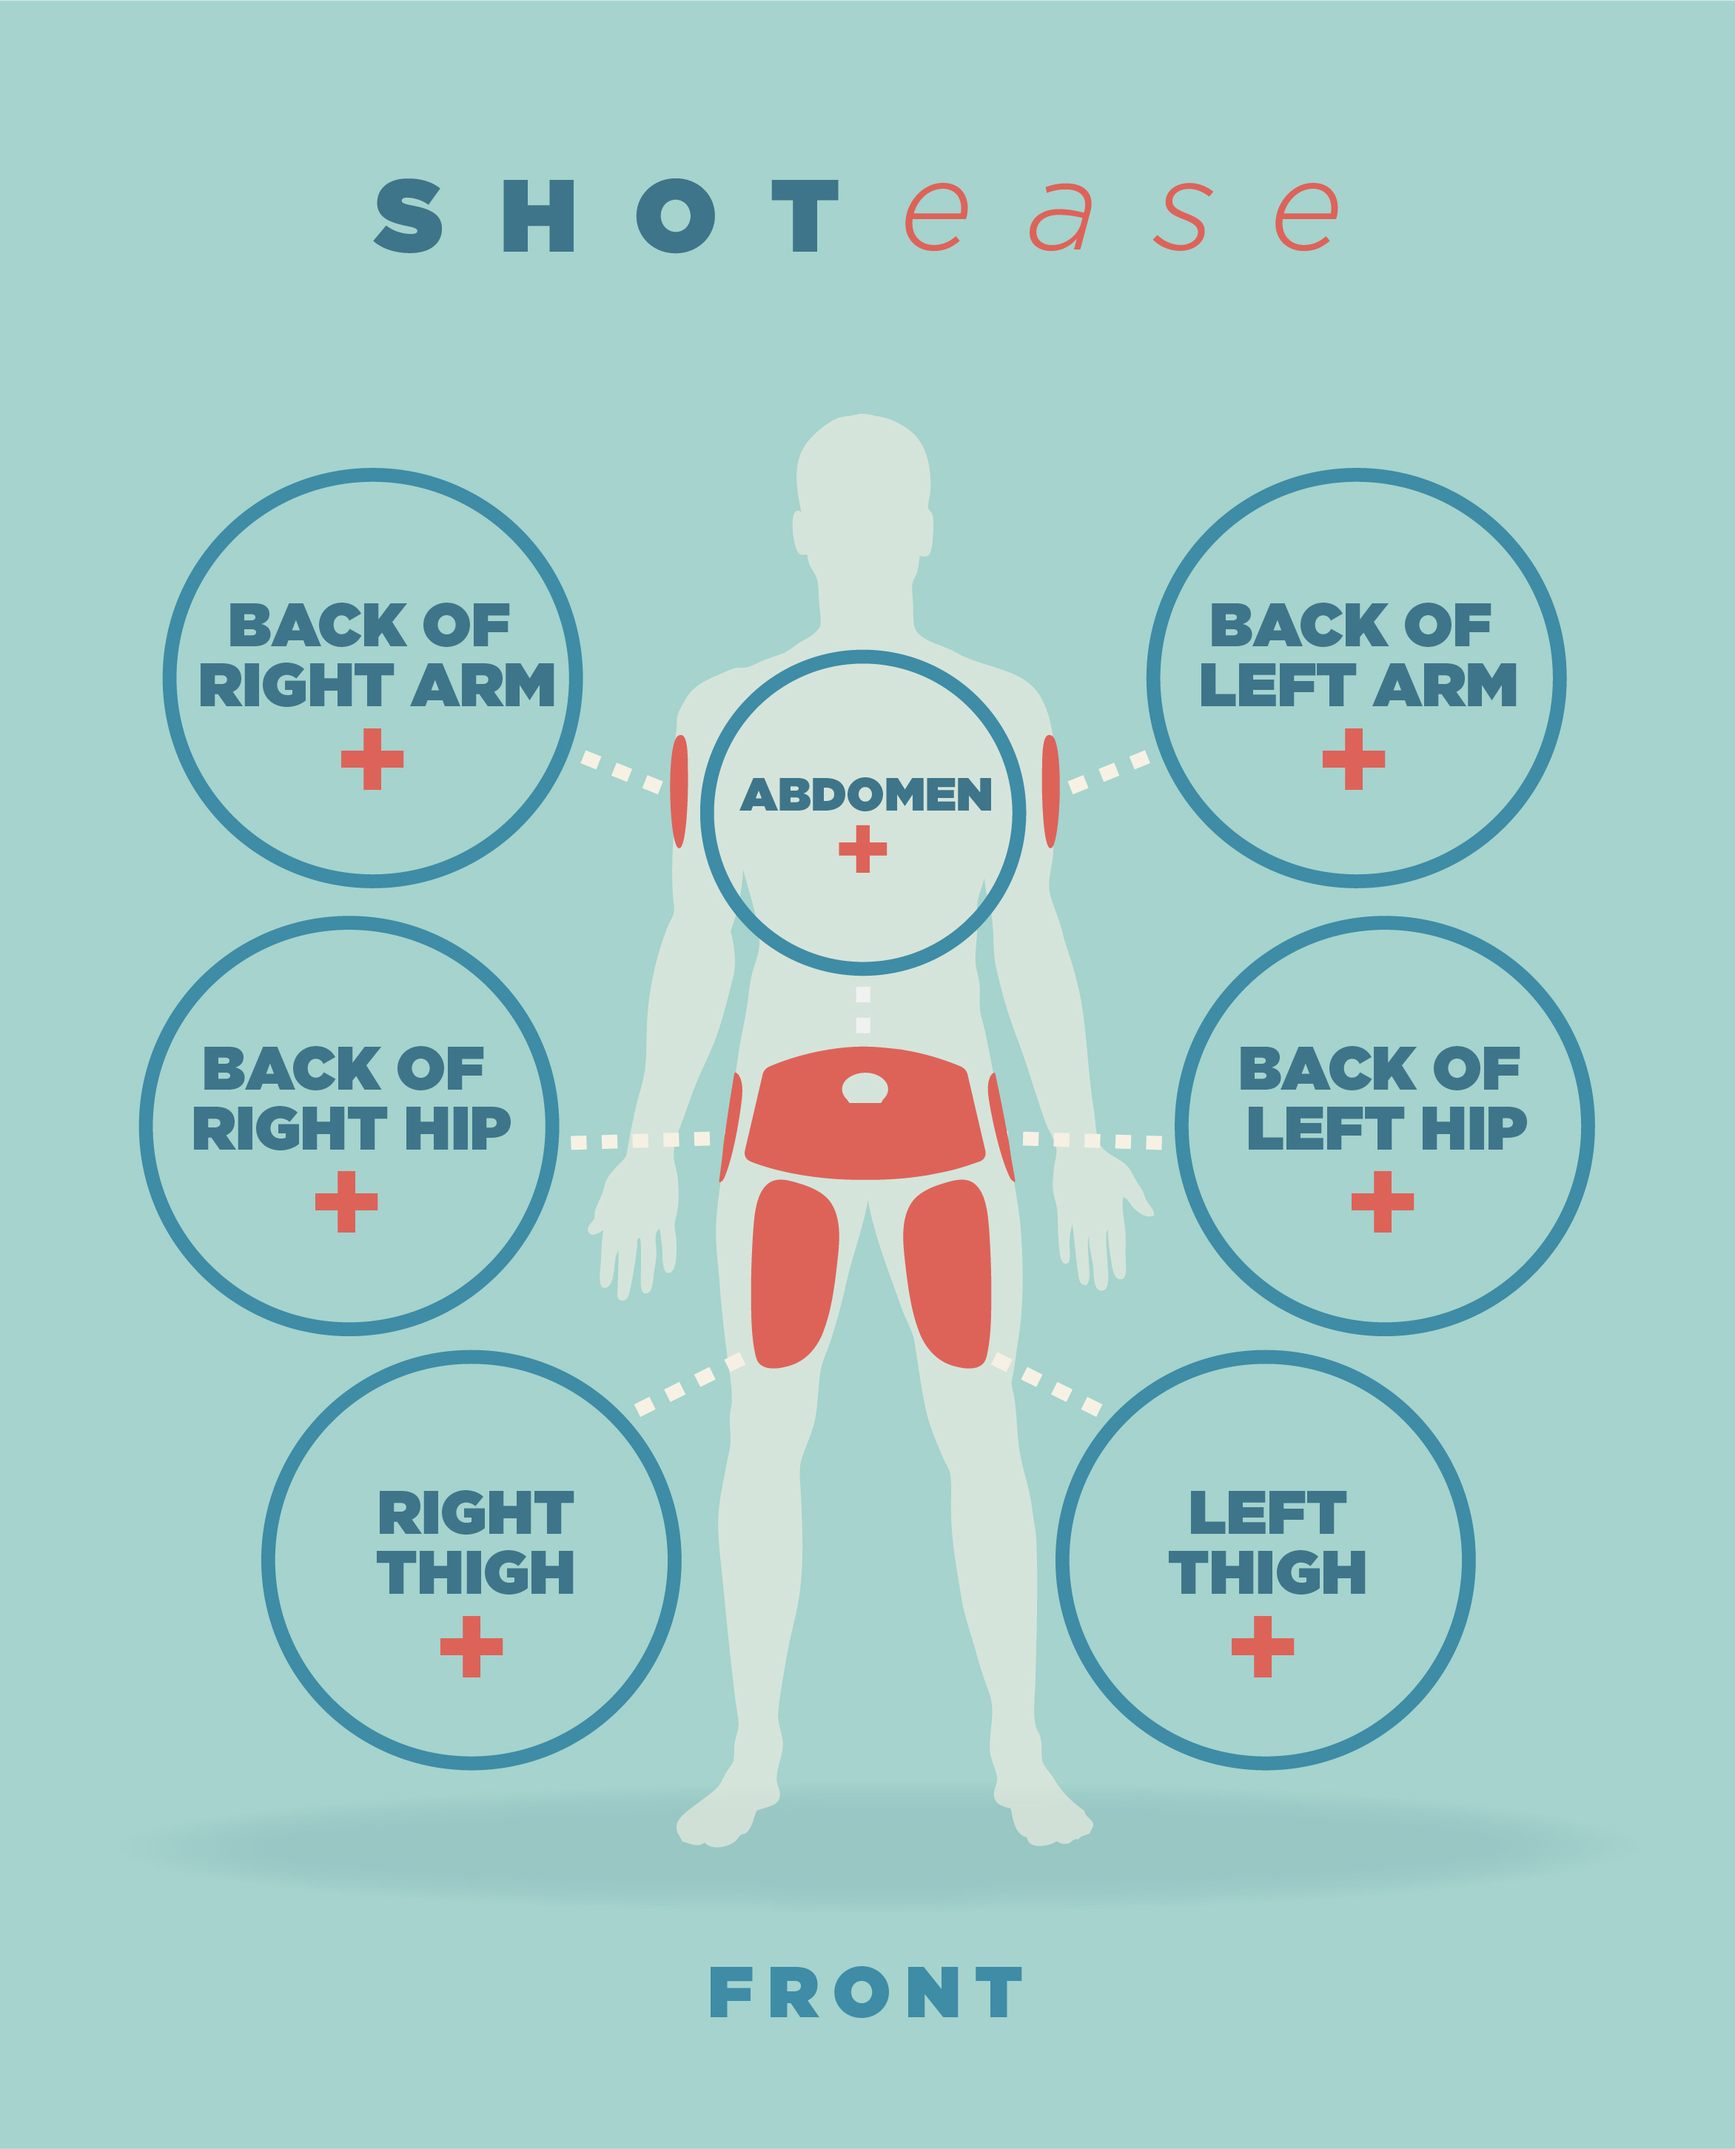
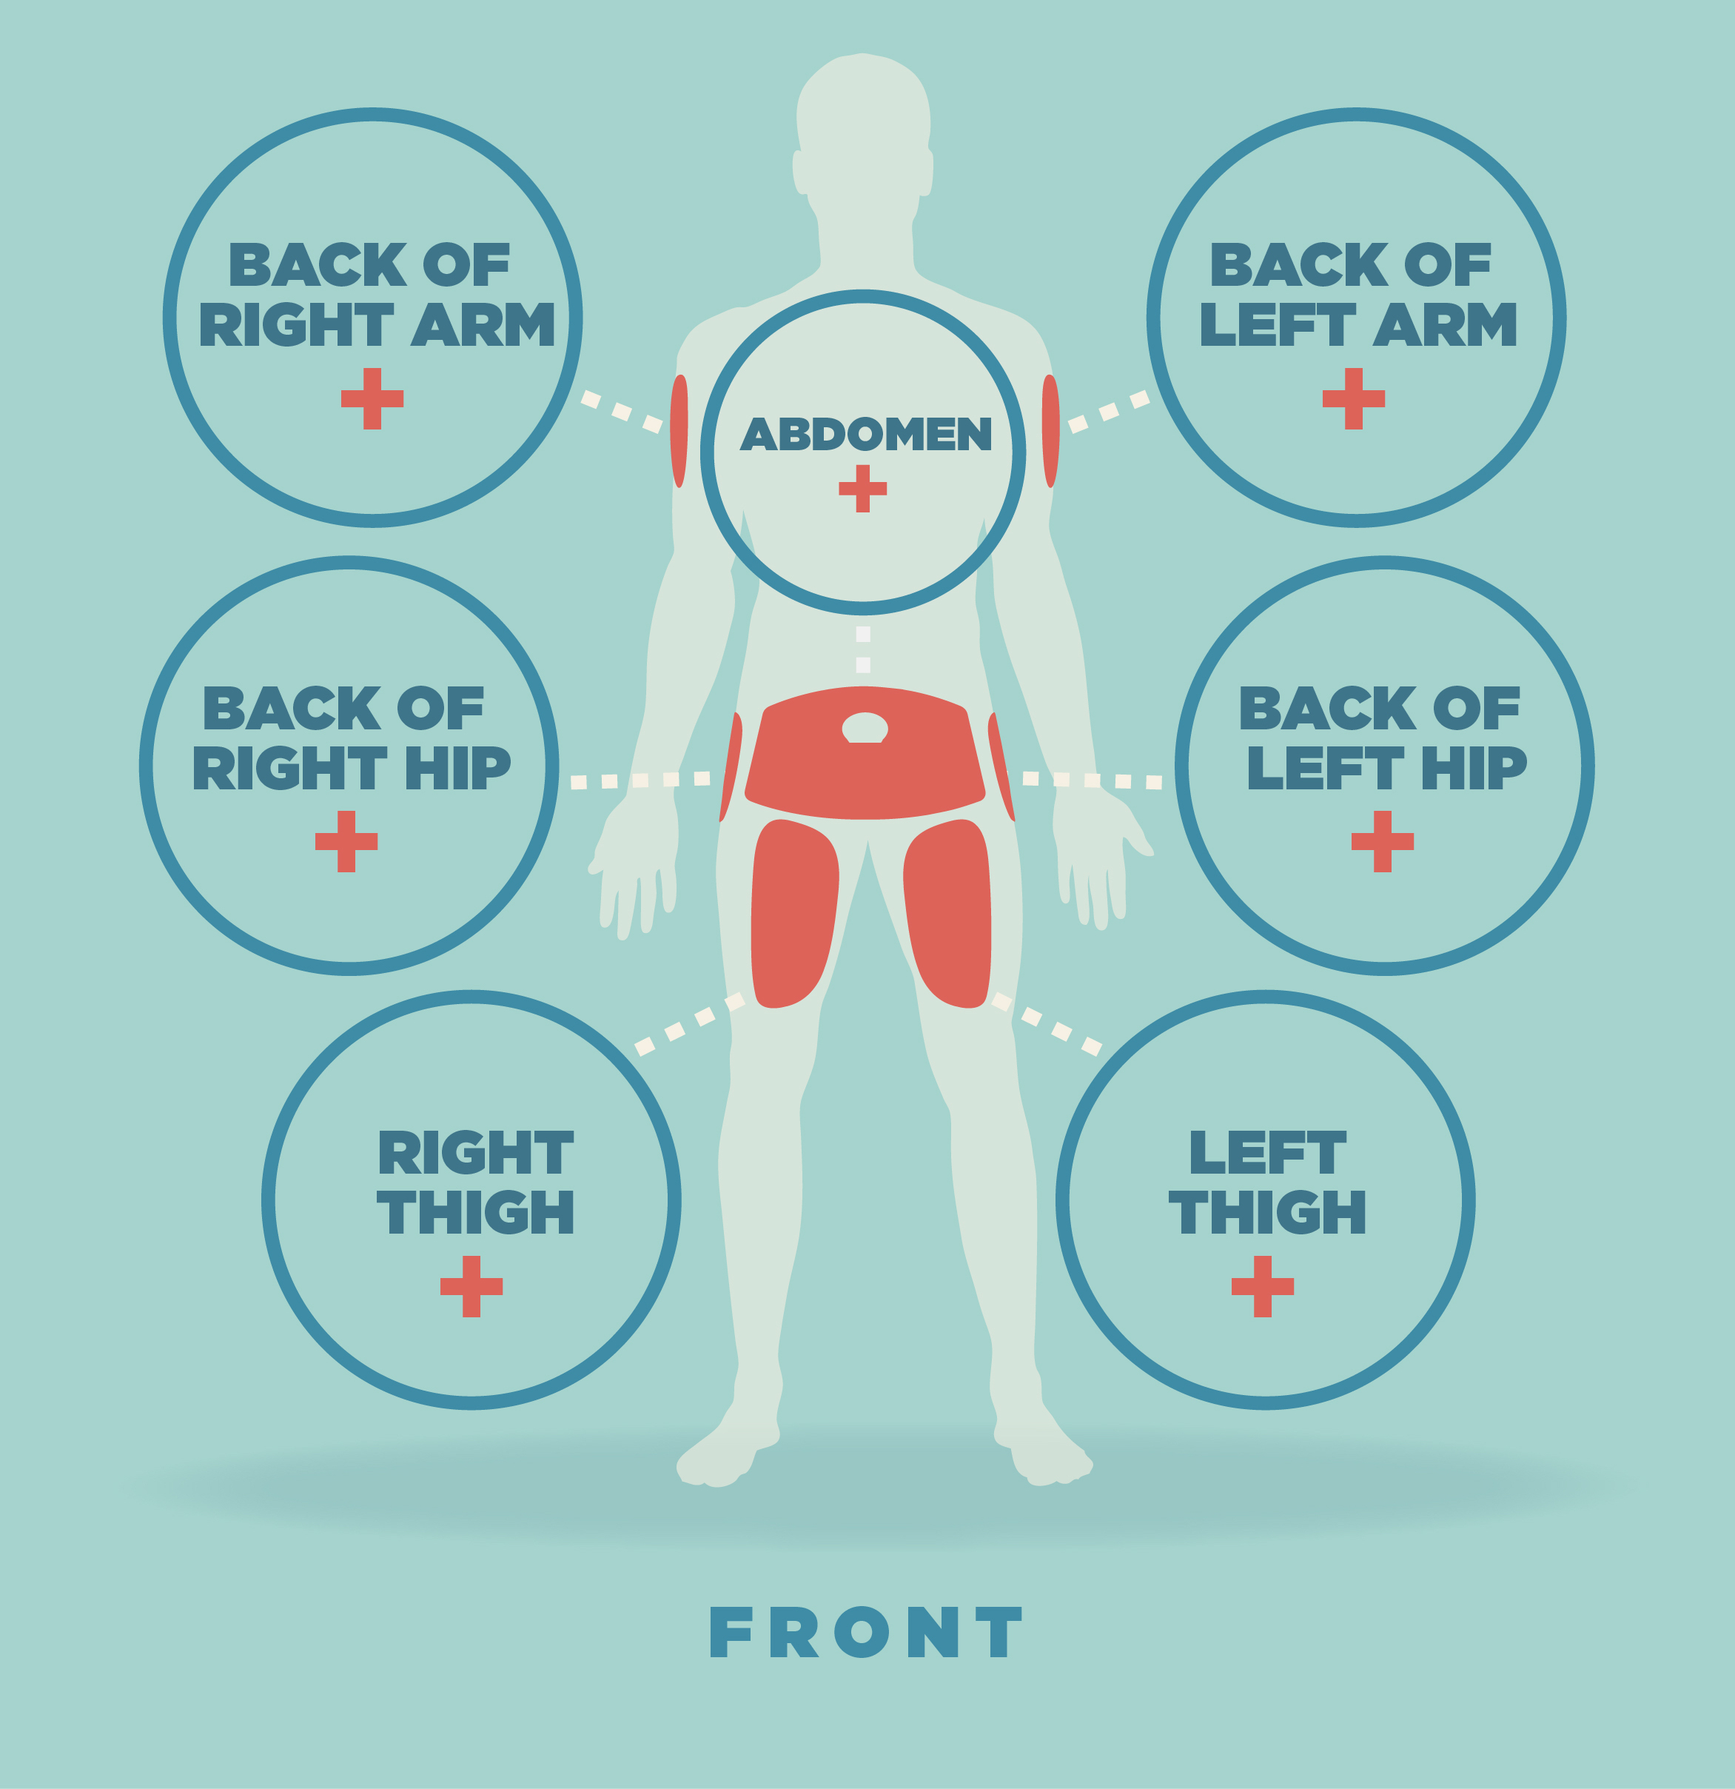
trying to connect my divs to image in /shot

diff --git a/src/components/logShot/logShot.css b/src/components/logShot/logShot.css
@@ -1,14 +1,33 @@
 .image--body {
-  width: 1000px;
-  height: auto;
+  width: auto;
+  height: 1000px;
   display: block;
   margin-left: auto;
   margin-right: auto;
-  /* padding-top: 20px;
-  padding-bottom: 50px; */
-  /* position: fixed */
+  /* position: fixed; */
+  position: relative;
+  /* z-index: 1; */
+  /* background-size: cover; */
+
+}
+
+.WholeBody {
   position: relative;
 }
+
+.image--mainLogo {
+  width: 550px;
+  height: auto;
+  padding: 30px 0px 30px 0px;
+  margin-left: auto;
+  margin-right: auto;
+  display: block;
+}
+
+/* .testingimage {
+  position: absolute;
+} */
+
 
 /* //this styles all the images inside the modal */
 .imageofbodypart {
@@ -20,60 +39,52 @@
 .abdomen {
   position: absolute;
   top: 430px;
-  left: 600px;
-
-  padding: 70px;
-  /* background-color:lightpink; */
+  left: 595px;
+  padding: 75px 55px 70px 50px;
   border: 10px solid red;
+  /* z-index: 1; */
+
 }
 
 .backOfLeftArm {
   position: absolute;
   top: 320px;
   left: 850px;
-
-  padding: 106px;
-  /* background-color:lightpink; */
+  padding: 100px 80px 100px 80px;
   border: 10px solid green;
 }
 
 .backOfRightArm {
   position: absolute;
   top: 320px;
-  left: 277px;
-
-  padding: 106px;
-  /* background-color:lightpink; */
+  left: 285px;
+  padding: 100px 80px 100px 80px;
   border: 10px solid lightgreen
 }
 
 .backOfRightHip {
   position: absolute;
-  top: 335px;
-  left: 335px;
-
-  padding: 100px;
-  /* background-color:lightpink; */
+  top: 585px;
+  left: 270px;
+  padding: 100px 80px 100px 80px;
   border: 10px solid hotpink;
 }
 
 .backOfLeftHip {
   position: absolute;
-  top: 335px;
-  left: 335px;
+  top: 585px;
+  left: 870px;
+  padding: 100px 80px 100px 80px;
 
-  padding: 100px;
-  /* background-color:lightpink; */
   border: 10px solid lightpink
 }
+/* padding: <padding-top> || <padding-right> || <padding-bottom> || <padding-left> */
 
 .rightThigh {
   position: absolute;
   top: 335px;
   left: 335px;
-
   padding: 100px;
-  /* background-color:lightpink; */
   border: 10px solid lightskyblue;
 }
 
@@ -81,9 +92,7 @@
   position: absolute;
   top: 335px;
   left: 335px;
-
   padding: 100px;
-  /* background-color:lightpink; */
   border: 10px solid blue;
 }
 

diff --git a/src/components/logShot/LogShot.js b/src/components/logShot/LogShot.js
@@ -2,7 +2,7 @@ import React, { Component } from 'react'
 import WholeBody from "./WholeBody.jpg"
 import "./logShot.css"
 import LogShotModalCard from "./LogShotModalCard"
-
+import Logo from "./Logo.png"
 
 
 export default class LogShot extends Component {
@@ -11,7 +11,9 @@ export default class LogShot extends Component {
         return (
             <React.Fragment>
             <div className="WholeBody">
-                <img src ={WholeBody} className="image--body" alt="whole body"/>
+
+            <img src ={Logo} className="image--mainLogo" alt="main logo"/>
+            <img src ={WholeBody} className="image--body" alt="whole body"/>
             </div>
 
             <section className="images">

diff --git a/src/components/logShot/LogShotModalCard.js b/src/components/logShot/LogShotModalCard.js
@@ -65,7 +65,8 @@ export default class LogShotModalCard extends Component {
                         <ModalHeader toggle={this.toggle}>Record Your Shot</ModalHeader>
                         <ModalBody>
                             <React.Fragment>
-                            <img src ={this.props.shotArea.imagePath} className="imageofbodypart" alt="bodypart"/>
+
+                           <div className="testingimage"> <img src ={this.props.shotArea.imagePath} className="imageofbodypart" alt="bodypart"/> </div>
                                 <form className="addOneShot">
 
                                     <div className="form-group">
